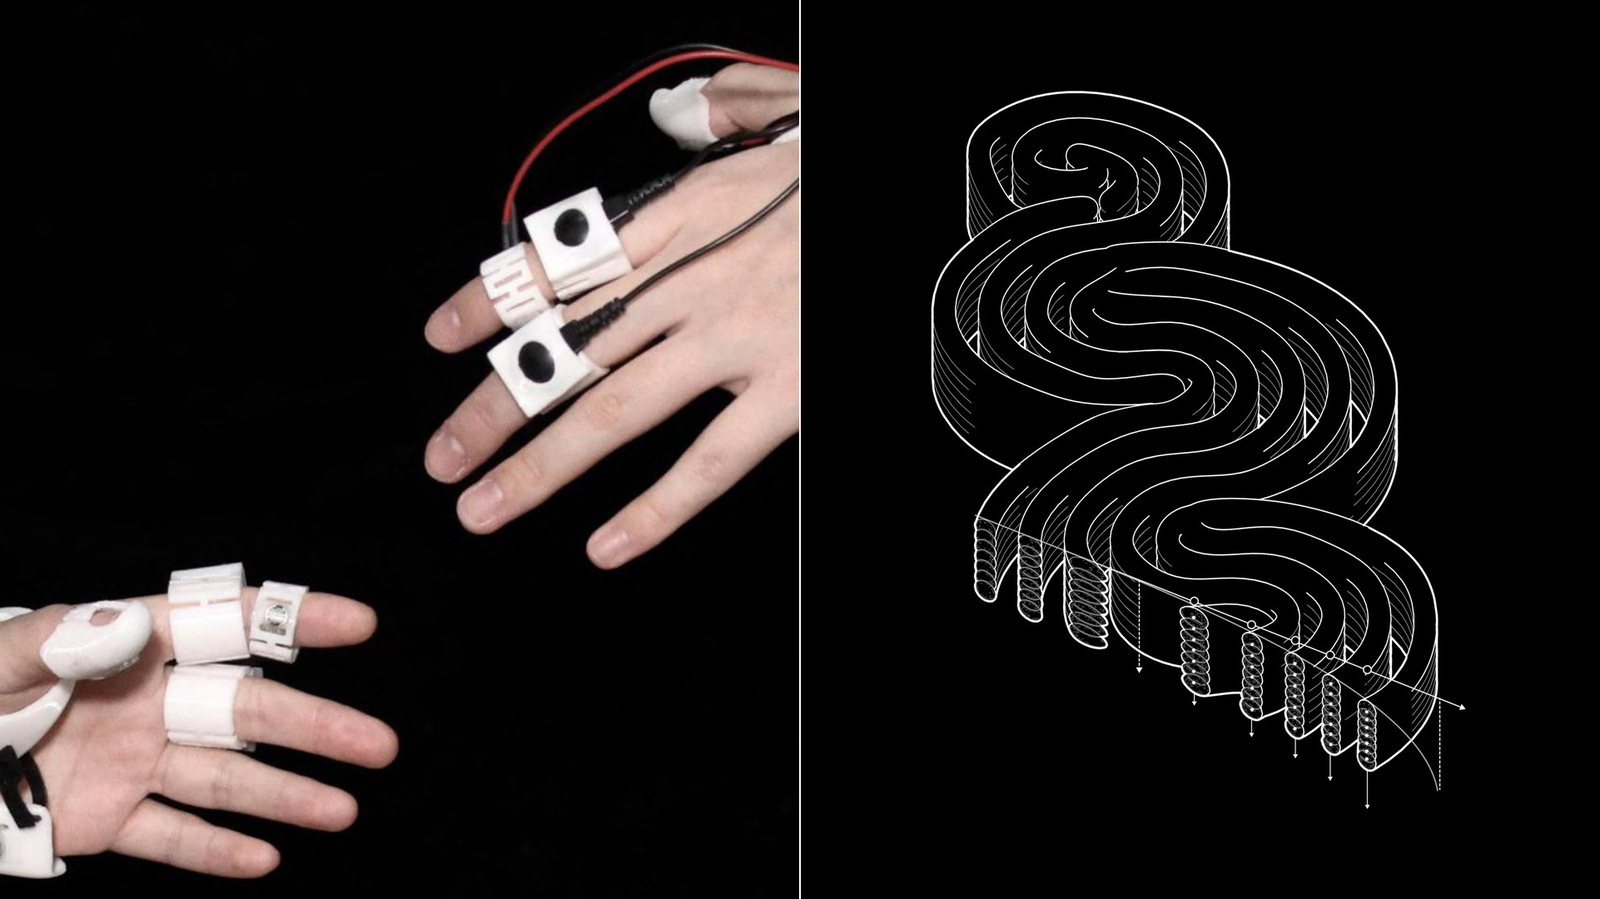
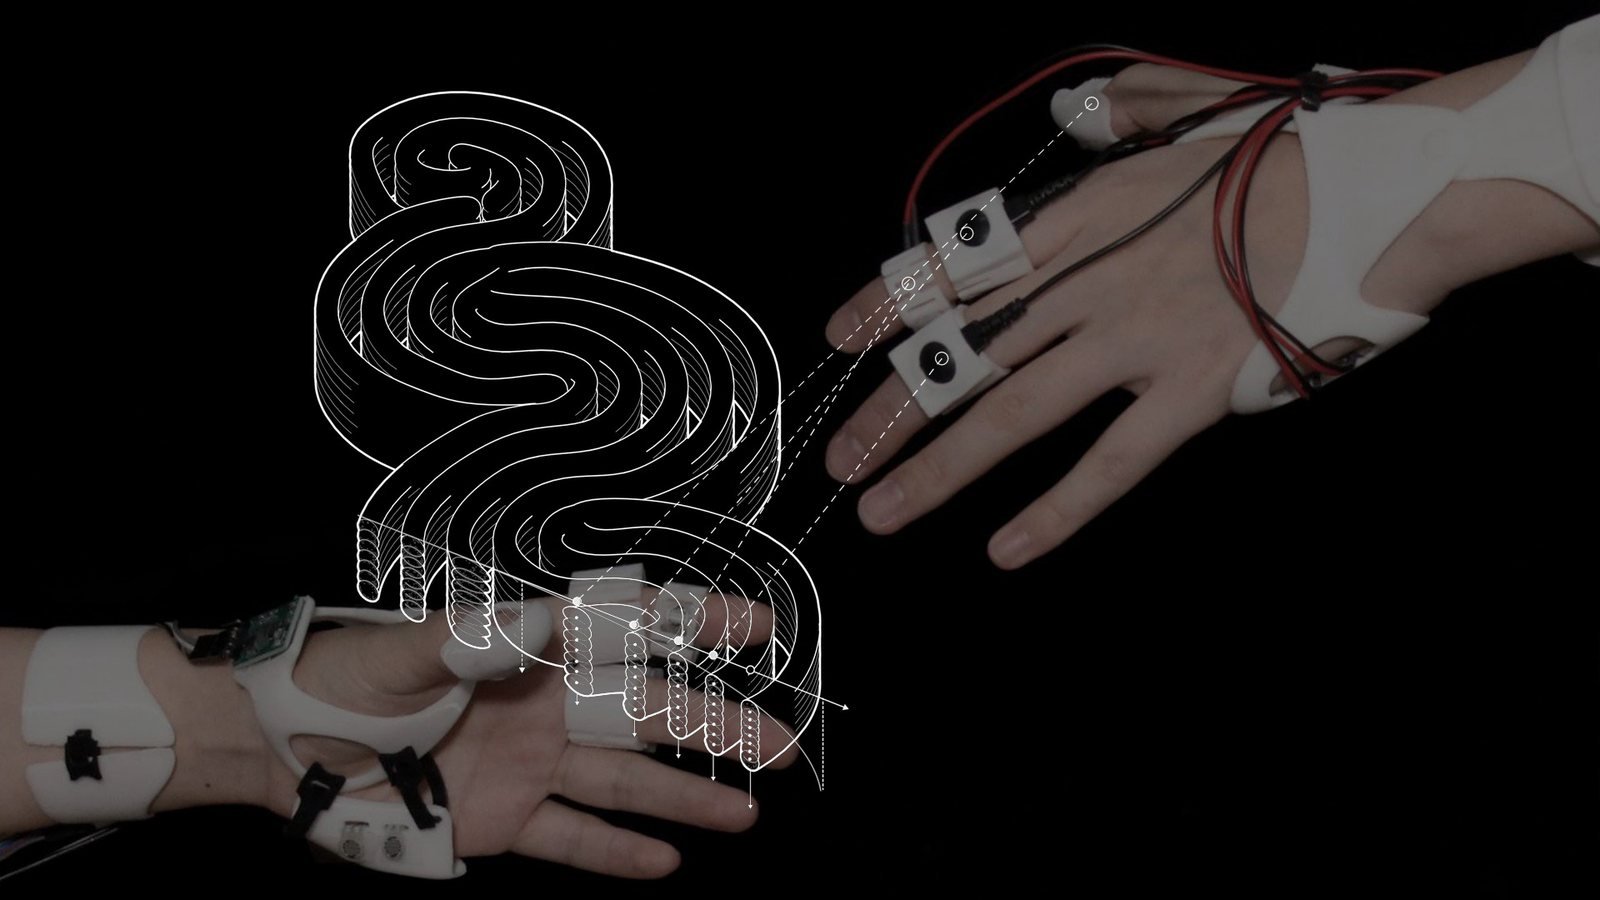
Oscillations: cover with the gloves dimmed and the toolpath drawing over them
Lines run from four sensors on the right glove to the layer-height marks they set
in the drawing. On hover the cover changes to the printed brick.

diff --git a/data.jsx b/data.jsx
@@ -176,7 +176,7 @@ const PORTFOLIO_DATA = {
       short: 'a handshake read by sensing gloves and left behind as a ceramic brick',
       hero: true,
       heroThumb: 'projects/assets/oscillations/os00-hero169.jpg',
-      // index cover: the hands and the brick's toolpath drawing; on hover the drawing becomes the printed brick
+      // index cover: the gloves dimmed, the brick's toolpath drawing, and lines from four sensors to the layer heights they set; on hover the printed brick
       cover: { kind: 'fade', a: 'projects/assets/covers/os-a.jpg', b: 'projects/assets/covers/os-b.jpg', dark: true },
       thumb: 'projects/assets/oscillations/os00-cover.jpg',
       title: 'Oscillations of Connection',
